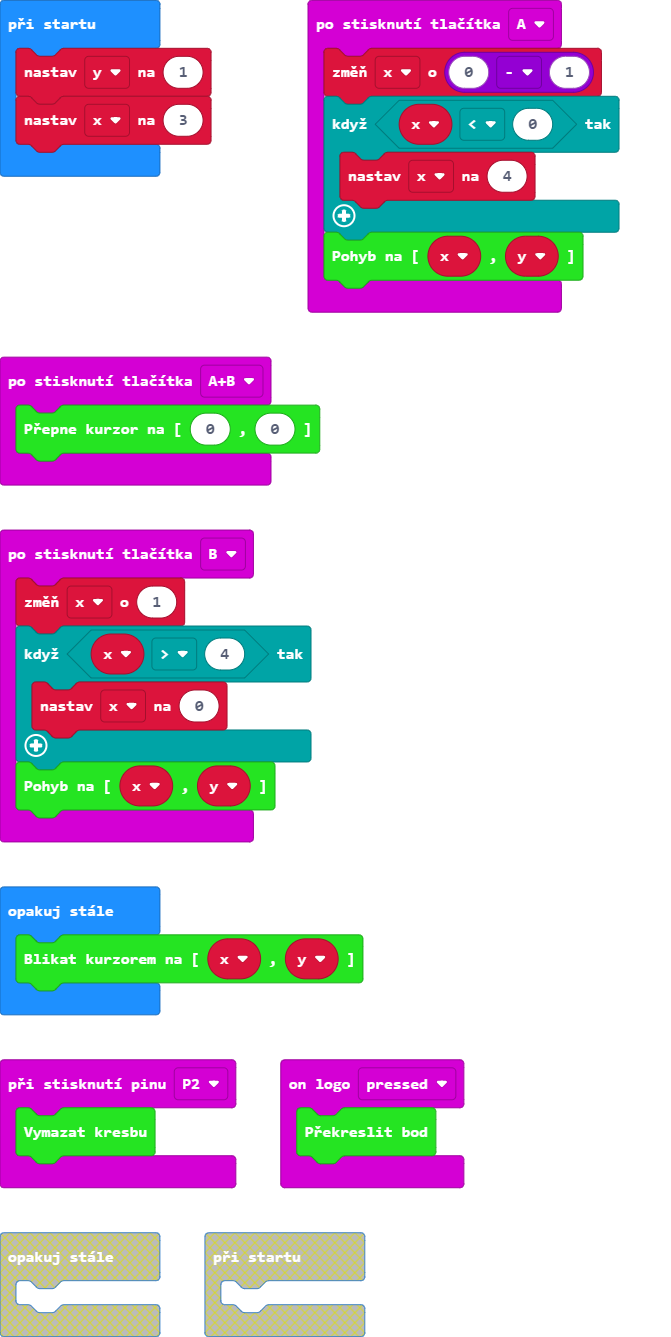
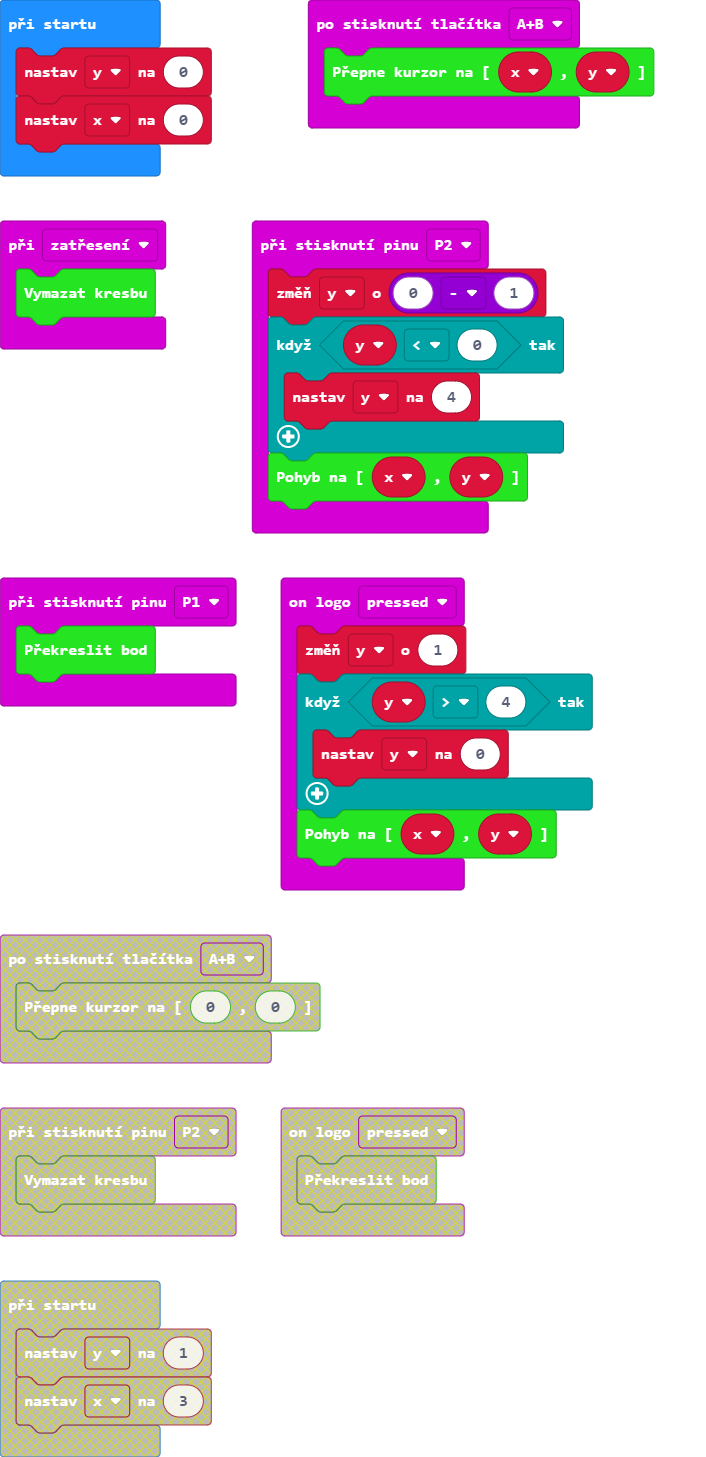
edited

diff --git a/drawing.ts b/drawing.ts
@@ -23,7 +23,9 @@ namespace Malovani {
     //% block="Překreslit bod"
 
     export function Prekreslit(): void {
-        stateBeforeArrive = !(stateBeforeArrive)
+        if(showCursor) {
+            stateBeforeArrive = !(stateBeforeArrive)
+        }
     }
 
     /**
@@ -52,9 +54,9 @@ namespace Malovani {
     export function PrepnoutKurzor(newX: number, newY: number): void {
         showCursor = !(showCursor)
         if (stateBeforeArrive) {
-            led.plot(newX, newY)
+            led.plot(newX, 4 - newY)
         } else {
-            led.unplot(newX, newY)
+            led.unplot(newX, 4 - newY)
         }
     }
 
@@ -66,12 +68,12 @@ namespace Malovani {
     //% block="Blikat kurzorem na [%x, %y]"
 
     export function BlikaniKurzoru(newX: number, newY: number): void {
-        if (showCursor) {
-            led.toggle(newX, newY)
-            basic.pause(100)
-
             privateX = newX; //zde nastavuji při každém „bliknutí" hodnoty, protože se tato metoda provede jako první a já si někde musím získat výchozí hodnotu x a y před tím, než poprvné pohnu s kurzorem...nic lepšího mě nenapdalo
             privateY = newY; 
+        if (showCursor) {
+            led.toggle(newX, 4 - newY)
+            basic.pause(100)
+
         }
     }
 
@@ -82,16 +84,14 @@ namespace Malovani {
     */
     //% block="Pohyb na [%x, %y]"
     export function Pohyb(newX: number, newY: number): void {
-        if (showCursor) {
             if (stateBeforeArrive) {
-                led.plot(privateX, privateY)
+                led.plot(privateX, 4 - privateY)
             } else {
-                led.unplot(privateX, privateY)
+                led.unplot(privateX, 4 - privateY)
             }
             privateX = newX
             privateY = newY            
-            stateBeforeArrive = led.point(privateX, privateY)
-        }
+            stateBeforeArrive = led.point(privateX, 4 - privateY)
     }
 
 

diff --git a/main.ts b/main.ts
@@ -6,10 +6,14 @@ input.onButtonPressed(Button.A, function () {
     Malovani.Pohyb(x, y)
 })
 input.onPinPressed(TouchPin.P2, function () {
-    Malovani.Vymazat()
+    y += 0 - 1
+    if (y < 0) {
+        y = 4
+    }
+    Malovani.Pohyb(x, y)
 })
 input.onButtonPressed(Button.AB, function () {
-    Malovani.PrepnoutKurzor(0, 0)
+    Malovani.PrepnoutKurzor(x, y)
 })
 input.onButtonPressed(Button.B, function () {
     x += 1
@@ -18,13 +22,23 @@ input.onButtonPressed(Button.B, function () {
     }
     Malovani.Pohyb(x, y)
 })
-input.onLogoEvent(TouchButtonEvent.Pressed, function () {
+input.onPinPressed(TouchPin.P1, function () {
     Malovani.Prekreslit()
+})
+input.onGesture(Gesture.Shake, function () {
+    Malovani.Vymazat()
+})
+input.onLogoEvent(TouchButtonEvent.Pressed, function () {
+    y += 1
+    if (y > 4) {
+        y = 0
+    }
+    Malovani.Pohyb(x, y)
 })
 let x = 0
 let y = 0
-y = 1
-x = 3
+y = 0
+x = 0
 basic.forever(function () {
     Malovani.BlikaniKurzoru(x, y)
 })
